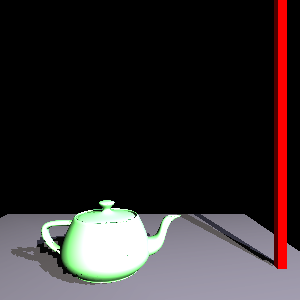
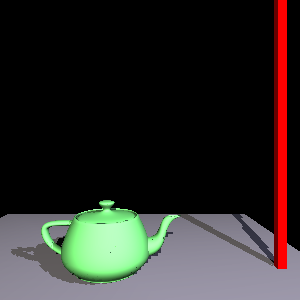
LIGHTING Return a transformed normal to unit length in the compatibility pass
The fixed function transforms a normal by the inverse transpose of the
modelview, which for a uniform scale of s divides the normal's length by s.
Nothing renormalized, so a Transform with a scale, or any node scaling its own
geometry, was lit as though N.L were 1/s times what it is. Measured on a lit
sphere in this pass: at half size 202 where 101 is right, at double size 51.

Teapot.render scales by its size field, so shadow_1 and shadow_2 -- which ask
for size=.5 -- lit their teapot twice over and washed a (.5,1,.5) green out to
white wherever the surface faced a light.

The core-profile shaders normalize the transformed normal in the vertex shader
and never had this, so the two profiles disagreed about the same scaled scene.
FlatPass.legacyNormalRescale settles it for the compatibility pass, from Render
and from renderGeometry both: a caller that wants the geometry on its own --
the shadow tutorials, filling a depth map from a light -- comes straight to
renderGeometry and never passes through Render.

nurbs switched GL_NORMALIZE off again as it finished, which took it away from
everything drawn after it in the frame; it manages GL_AUTO_NORMAL alone now.
The ad-hoc enables in arraygeometry and indexedpolygons, each marked "should do
this explicitly eventually", are what the pass now does explicitly.

Changed region(s): [[0.12, 0.66, 0.6, 0.96], [0.66, 0.0, 0.93, 0.9]]

diff --git a/docs/flat.html b/docs/flat.html
@@ -28,6 +28,16 @@ profile). For how the shader path works -- its passes, shader programs and the
 VRML97 lighting shaders -- read <a href="renderpasses.html">Core-Profile
 Rendering</a>; for the physically based renderer built on it, read
 <a href="pbr.html">Physically Based Rendering</a>.</p>
+<p class="technical">Both paths return a transformed normal to unit length, so
+a <code>Transform</code> with a <code>scale</code> lights what is under it the
+same in either profile. The shader path normalizes in the vertex shader; the
+fixed-function path asks the GL for it (<code>GL_NORMALIZE</code>, in
+<code>FlatPass.legacyNormalRescale</code>), because the fixed function
+transforms a normal by the inverse transpose of the modelview and a scale of
+<code>s</code> divides the normal's length by <code>s</code>. Without it a
+half-size shape is lit twice as brightly and a doubled one half as much. A
+caller that renders geometry on its own through
+<code>renderGeometry</code> gets the same state.</p>
 </section>
 <section>
 <h2>Observables and Tree Updates</h2>

diff --git a/tests/unit/test_scaled_normals_gl.py b/tests/unit/test_scaled_normals_gl.py
@@ -1,0 +1,117 @@
+"""How brightly a scaled shape is lit, in the compatibility profile (needs GL).
+
+The fixed-function pipeline transforms a normal by the inverse transpose of
+the modelview, which for a uniform scale ``s`` divides its length by ``s``.
+Unless the GL is told to renormalize, a shape under a ``Transform`` with
+``scale`` is lit as though ``N.L`` were ``1/s`` times what it is: half size
+means twice the diffuse light, and a scaled-up shape goes dark.
+
+The core-profile shaders never had this -- they ``normalize()`` the transformed
+normal in the vertex shader -- so the two profiles disagreed about a scaled
+scene, which is what these pin.
+
+Each scenario renders a sphere facing a head-on directional light and reports
+the centre pixel's luminance. The pixel at the centre is the point whose normal
+faces the camera, so the shading there does not depend on how large the sphere
+is drawn -- only on whether the normal is unit length. Skips (not fails) when
+GL is unavailable.
+"""
+import os
+import subprocess
+import sys
+
+import pytest
+
+DRIVER = r'''
+import os, sys
+SCALE = float(sys.argv[1])
+PROFILE = sys.argv[2]
+os.environ['OPENGLCONTEXT_PROFILE'] = PROFILE
+os.environ['OPENGLCONTEXT_BACKEND'] = 'glfw'
+os.environ['OPENGLCONTEXT_DISABLE_FPS_DISPLAY'] = '1'
+os.environ['OPENGLCONTEXT_SHADOWS'] = '0'
+STATE = {'gl_ok': False, 'lum': -1.0}
+try:
+    import glfw
+    from OpenGL.GL import glReadPixels, GL_RGB, GL_UNSIGNED_BYTE
+    from OpenGLContext import testingcontext
+    Base = testingcontext.getInteractive()
+    from OpenGLContext.scenegraph import basenodes
+
+    class C(Base):
+        def OnInit(self):
+            shape = basenodes.Shape(
+                geometry=basenodes.Sphere(radius=1.0),
+                appearance=basenodes.Appearance(
+                    material=basenodes.Material(
+                        diffuseColor=(0.4, 0.4, 0.4), ambientIntensity=0.0)),
+            )
+            self.sg = basenodes.sceneGraph(children=[
+                basenodes.DirectionalLight(direction=(0, 0, -1), intensity=1.0),
+                basenodes.Transform(scale=(SCALE, SCALE, SCALE),
+                                    children=[shape]),
+            ])
+
+    inst = C()
+    inst.deferRedraw = True
+    try:
+        glfw.swap_interval(0)
+    except Exception:
+        pass
+    w, h = inst.getViewPort()
+    for _ in range(6):
+        glfw.poll_events()
+        inst.OnDraw(force=1)
+    STATE['gl_ok'] = True
+    import numpy as np
+    px = glReadPixels(w // 2, h // 2, 1, 1, GL_RGB, GL_UNSIGNED_BYTE)
+    flat = np.frombuffer(bytes(px), dtype=np.uint8).reshape(-1)
+    STATE['lum'] = sum(int(v) for v in flat[:3]) / 3.0
+except SystemExit:
+    raise
+except BaseException as e:
+    sys.stderr.write('NOGL %r\n' % (e,))
+    import traceback; traceback.print_exc()
+    os._exit(3)
+
+# stderr, and flushed: os._exit discards whatever is still buffered.
+sys.stderr.write('LUM=%.3f\n' % STATE['lum'])
+sys.stderr.flush()
+os._exit(0 if STATE['gl_ok'] else 3)
+'''
+
+
+def luminance(scale, profile):
+    proc = subprocess.run([sys.executable, '-c', DRIVER, str(scale), profile],
+                          capture_output=True, text=True, timeout=120,
+                          env=dict(os.environ))
+    if proc.returncode == 3:
+        pytest.skip('no usable GL context: %s'
+                    % proc.stderr.strip().splitlines()[-1:])
+    assert proc.returncode == 0, (
+        'render failed at scale %r in %s\nstdout:\n%s\nstderr:\n%s'
+        % (scale, profile, proc.stdout, proc.stderr))
+    for line in proc.stderr.splitlines():
+        if line.startswith('LUM='):
+            return float(line[4:])
+    raise AssertionError('driver reported no luminance:\n%s' % proc.stderr)
+
+
+@pytest.mark.parametrize('profile', ['compatibility', 'core'])
+@pytest.mark.parametrize('scale', [0.5, 2.0])
+def test_scale_does_not_change_how_brightly_a_surface_is_lit(profile, scale):
+    """The point facing the light is as bright whatever size it is drawn."""
+    plain = luminance(1.0, profile)
+    assert plain > 20.0, 'the unscaled sphere has to be lit for this to mean anything'
+
+    scaled = luminance(scale, profile)
+
+    assert scaled == pytest.approx(plain, abs=4.0), (
+        'scale %s changed the lit value from %.1f to %.1f in the %s profile'
+        % (scale, plain, scaled, profile))
+
+
+def test_the_two_profiles_agree_about_a_scaled_scene():
+    """Whatever the profile, a half-size sphere is lit the same."""
+    assert luminance(0.5, 'compatibility') == pytest.approx(
+        luminance(0.5, 'core'), abs=6.0)

diff --git a/OpenGLContext/passes/flatcompat.py b/OpenGLContext/passes/flatcompat.py
@@ -104,6 +104,7 @@ class FlatPass( _flat.FlatPass ):
             glDepthFunc(GL_LESS)
             glEnable(GL_CULL_FACE)
             glCullFace(GL_BACK)
+            self.legacyNormalRescale()
 
             self.legacyLightRender( matrix )
 
@@ -136,6 +137,32 @@ class FlatPass( _flat.FlatPass ):
             ### default VRML background is black
             glClearColor(0.0,0.0,0.0,1.0)
             glClear(GL_COLOR_BUFFER_BIT | GL_DEPTH_BUFFER_BIT )
+
+    def legacyNormalRescale( self ):
+        """Have the GL return transformed normals to unit length
+
+        The fixed function transforms a normal by the inverse transpose of the
+        modelview, which for a scale of ``s`` divides the normal's length by
+        ``s``.  A Transform with a ``scale`` field would otherwise light what is
+        under it as though ``N.L`` were ``1/s`` times what it is -- a half-size
+        shape lit twice as brightly, a doubled one half as much -- and the
+        core-profile shaders, which normalize the transformed normal, would
+        disagree with this pass about the same scene.
+
+        GL_NORMALIZE rather than GL_RESCALE_NORMAL: VRML97 allows a
+        non-uniform scale, which rescaling alone does not answer.
+        """
+        glEnable(GL_NORMALIZE)
+
+    def renderGeometry( self, mvmatrix ):
+        """Draw the geometry, with the state a fixed-function draw depends on
+
+        Render sets that state up for a whole frame, but a caller wanting the
+        geometry alone -- a shadow tutorial filling a depth map from a light,
+        say -- comes straight here and never passes through it.
+        """
+        self.legacyNormalRescale()
+        return super( FlatPass, self ).renderGeometry( mvmatrix )
 
     def legacyLightRender( self, matrix ):
         """Do legacy light-rendering operation"""

diff --git a/OpenGLContext/scenegraph/nurbs.py b/OpenGLContext/scenegraph/nurbs.py
@@ -94,8 +94,10 @@ class _SurfaceRenderer(object):
 
         # Legacy fixed-function rendering
         if lit:
+            # The surface evaluator generates the normals; the pass is what
+            # keeps them unit length after the modelview scales them
+            # (flatcompat.legacyNormalRescale).
             glEnable(GL_AUTO_NORMAL)
-            glEnable(GL_NORMALIZE)
         try:
             nurbObject = gluNewNurbsRenderer()
             try:
@@ -114,7 +116,6 @@ class _SurfaceRenderer(object):
         finally:
             if lit:
                 glDisable(GL_AUTO_NORMAL)
-                glDisable(GL_NORMALIZE)
 
     def _render_shader(self, mode, visible=1, lit=1):
         """Render the surface using shader-based pipeline.

diff --git a/OpenGLContext/scenegraph/indexedpolygons.py b/OpenGLContext/scenegraph/indexedpolygons.py
@@ -89,7 +89,6 @@ class Holder(object):
             # make the color field alter the diffuse color
             glNormalPointer(GL_FLOAT, 0, normal)
             glEnableClientState(GL_NORMAL_ARRAY)
-            glEnable(GL_NORMALIZE)  # should do this explicitly eventually
             return 1
         else:
             glDisable(GL_LIGHTING)
@@ -151,7 +150,6 @@ class VBOHolder(Holder):
             finally:
                 normal.unbind()
             glEnableClientState(GL_NORMAL_ARRAY)
-            glEnable(GL_NORMALIZE)  # should do this explicitly eventually
             return 1
         else:
             glDisable(GL_LIGHTING)

diff --git a/OpenGLContext/scenegraph/arraygeometry.py b/OpenGLContext/scenegraph/arraygeometry.py
@@ -163,7 +163,6 @@ class ArrayGeometry(object):
             if lit and self.normals is not None:
                 glEnableClientState( GL_NORMAL_ARRAY )
                 self.callBound( glNormalPointerf, self.normals)
-                glEnable(GL_NORMALIZE); # should do this explicitly eventually
             else:
                 glDisable( GL_LIGHTING )
 #				glDisableClientState( GL_NORMAL_ARRAY )
